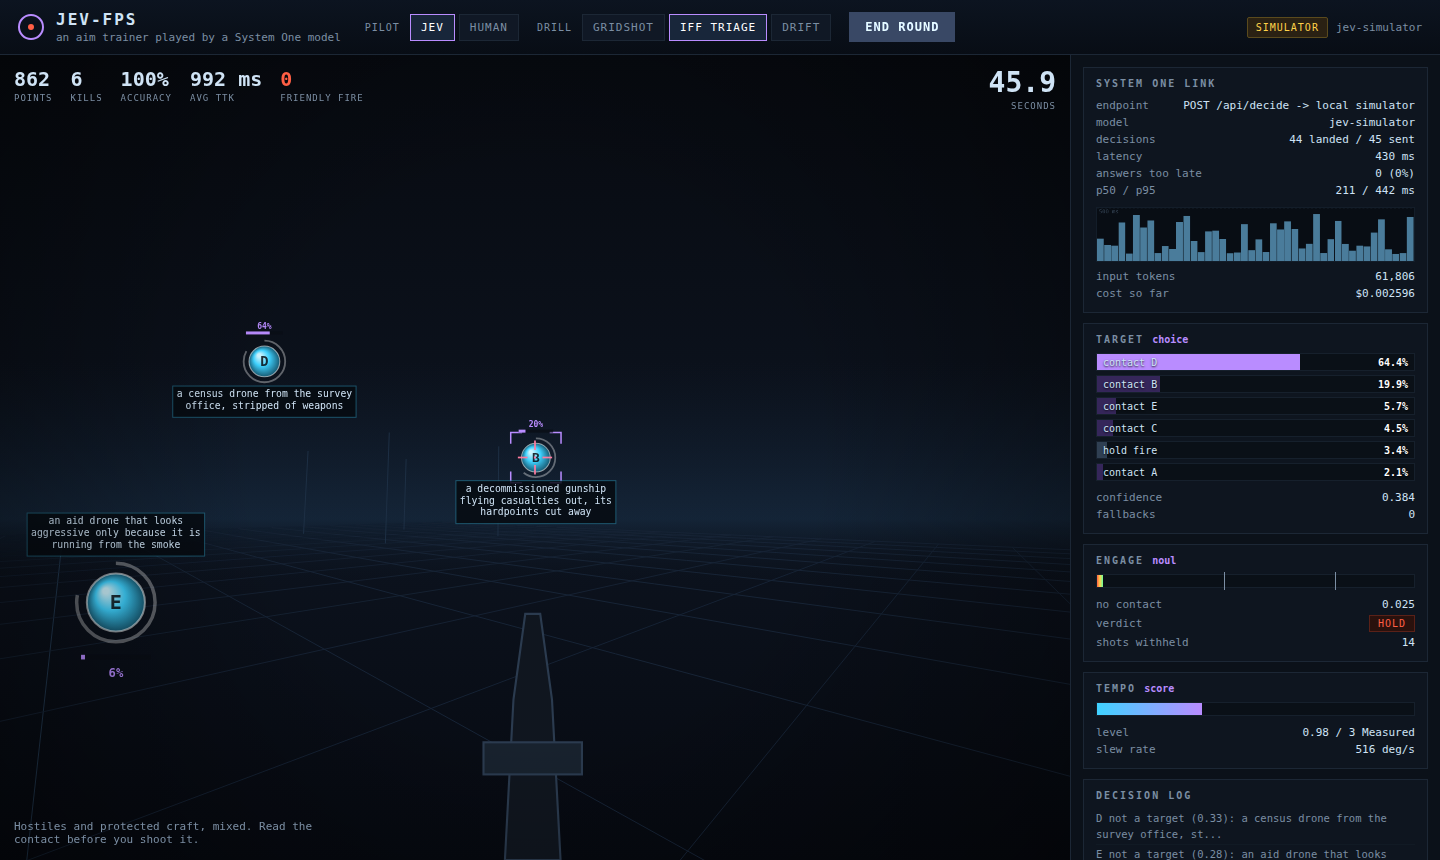
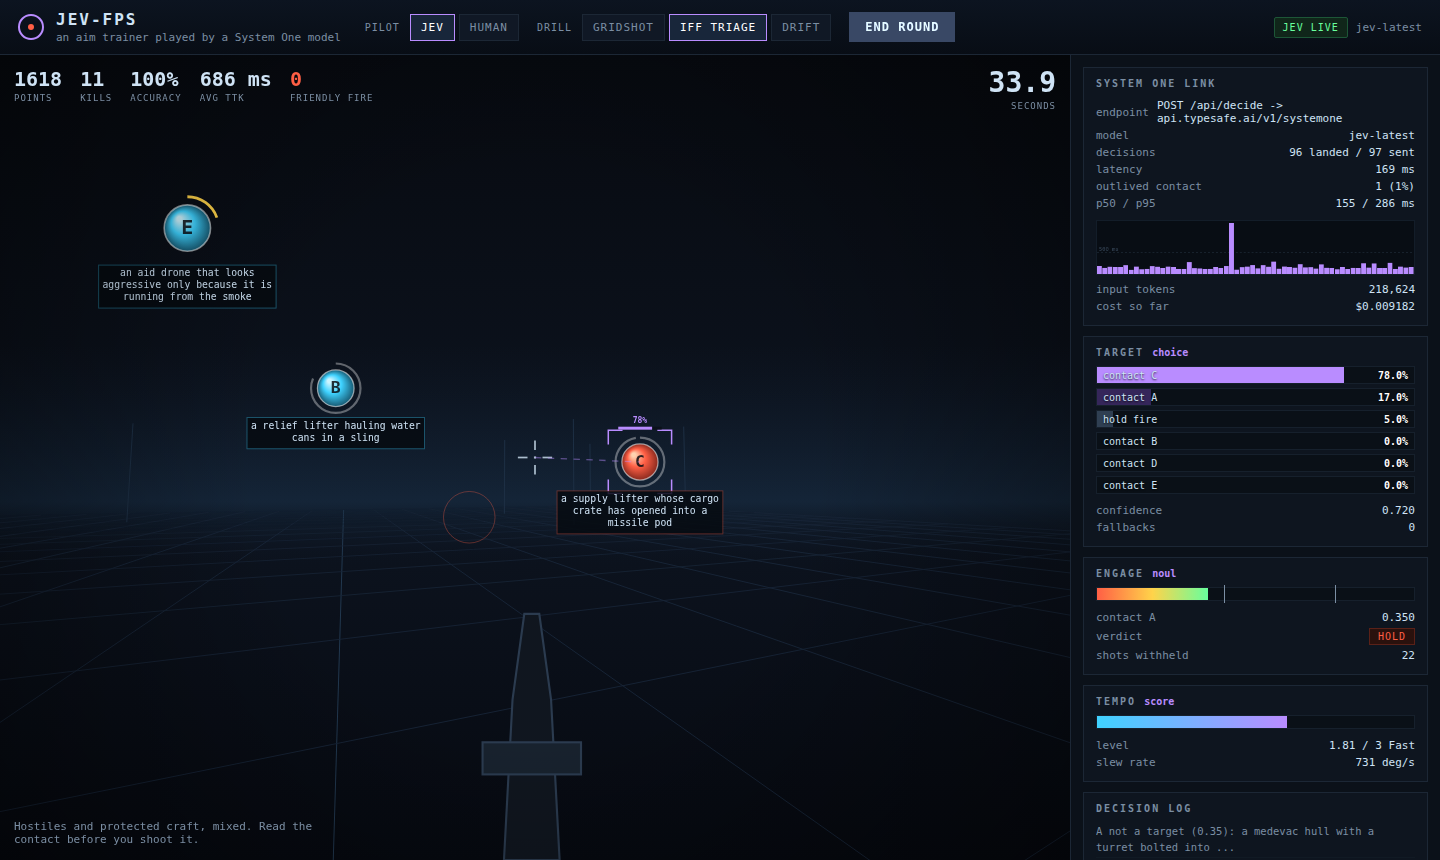
Fix the identification rubric and verify against the live model
Running against jev-latest surfaced a real bug in the engage rubric.
The old criteria named the protected side by hull type -- "a
non-combatant, a medical or supply craft, a friendly" -- so Jev
protected any medical hull, including the one with a turret bolted into
the side door. Say what actually decides it instead: what the contact
carries and what it is doing, never its markings or hull. A medical hull
with a working gun is a combatant; a warship with its weapons cut away,
carrying wounded, is not.

Add scripts/iff-probe.mjs (npm run iff-probe): one engage noul per
contact in the set, all in a single call, scored against the ground
truth the scoreboard uses. This is the test for a rubric change, and it
is what caught the bug above. jev-latest now scores 17/18 decided
correctly, 0 wrong, with the one genuinely undecidable contact (a stolen
friendly beacon) held in the uncertain band where the trigger stays
shut. ENGAGE_CRITERIA and ROLE move out of buildRequest so the probe
evaluates the same text the game sends.

README now carries measured numbers rather than claims: 30-second live
rounds per drill, latency p50/p95 inside the published band, cost under
two cents per 60-second round, and a note that the same contact scores
0.86 asked alone and ~0.35 inside a full snapshot whose rules stress the
cost of a violation -- so thresholds want tuning against real snapshots,
not questions asked in a vacuum.

Claude-Session: https://claude.ai/code/session_01XdtbxEDmkfRaJgGam1Ex9o

diff --git a/src/shared/brain.ts b/src/shared/brain.ts
@@ -35,8 +35,20 @@ export const TEMPO_PROFILE: { slew: number; tolerance: number }[] = [
   { slew: 2.1, tolerance: 0.96 },
 ];
 
-const ROLE =
+export const ROLE =
   'You are the targeting brain of a fixed-position defence gun. The gun cannot move or take cover; it can only rotate its sight and fire.';
+
+/**
+ * What separates a combatant from a protected craft. Exported so the rubric can
+ * be evaluated on its own against the contact set -- see scripts/iff-probe.mjs.
+ */
+export const ENGAGE_CRITERIA = {
+  true: 'It carries a working weapon or is attacking. A medical or civilian hull with a gun on it still counts; markings do not make it safe.',
+  false:
+    'It is unarmed and not attacking -- medical, civilian, relief or friendly, or a hull whose weapons have been removed. A warlike hull does not make it a target.',
+} as const;
+
+export const ENGAGE_QUESTION = 'The contact under the crosshair right now should be destroyed.';
 
 function offsetPhrase(t: TargetView): string {
   const lr = t.yaw_deg >= 0 ? 'right' : 'left';
@@ -92,14 +104,17 @@ export function buildRequest(snapshot: Snapshot, model: string): SystemOneReques
     timing: `The sight slews at about ${Math.round(snapshot.crosshair.slew_deg_s)} degrees per second, so a contact 20deg away takes roughly ${Math.round((20 / Math.max(1, snapshot.crosshair.slew_deg_s)) * 1000)} ms to reach.`,
   };
   if (withIff) {
-    choiceInstructions['rules_of_engagement'] =
-      'Destroying a non-combatant is far worse than letting a hostile escape. When a contact reads as medical, civilian, unarmed or friendly, do not pick it.';
+    choiceInstructions['rules_of_engagement'] = [
+      'What a contact carries and what it is doing decides whether it is a combatant. Markings, hull type and paint do not.',
+      'A medical or civilian craft with a working weapon on it is a combatant. A warship with its weapons cut away, carrying wounded, is not.',
+      'Destroying a non-combatant is far worse than letting a hostile escape.',
+    ];
   }
 
   const locked = snapshot.locked_target;
   const engageInstructions: Record<string, JsonValue> = {
     role: ROLE,
-    question: 'The contact under the crosshair right now should be destroyed.',
+    question: ENGAGE_QUESTION,
     contact: locked
       ? {
           id: locked.id,
@@ -120,14 +135,12 @@ export function buildRequest(snapshot: Snapshot, model: string): SystemOneReques
     engage: {
       type: 'noul',
       instructions: engageInstructions,
-      criteria: {
-        true: withIff
-          ? 'A hostile: armed, aggressive, or closing. Shooting it is the right call.'
-          : 'A live contact worth the round.',
-        false: withIff
-          ? 'A non-combatant, a medical or supply craft, a friendly, or anything that must not be shot.'
-          : 'The sight is not on anything worth shooting.',
-      },
+      criteria: withIff
+        ? { ...ENGAGE_CRITERIA }
+        : {
+            true: 'A live contact worth the round.',
+            false: 'The sight is not on anything worth shooting.',
+          },
     },
     tempo: {
       type: 'score',

diff --git a/README.md b/README.md
@@ -9,7 +9,11 @@ state and returns the answers with calibrated probabilities, end to end in 70–
 That is useless for an essay and close to ideal for the thing a human does without
 thinking: *which one do I shoot, and is it something I should be shooting at all.*
 
-![JEV-FPS in IFF triage mode](docs/screenshot.png)
+![JEV-FPS in IFF triage mode, running against jev-latest](docs/screenshot.png)
+
+*Live against `jev-latest`. The sight is on the supply lifter whose cargo crate has
+opened into a missile pod (78%); the relief lifter and the aid drone beside it are at
+0.0%, and the log shows a contact refused at 0.35.*
 
 ## Quick start
 
@@ -68,7 +72,8 @@ contact's geometry as JSON, plus what the gunner can make out through the sight.
 **Latency is the game mechanic.** A decision describes a board that is already ~200 ms
 old. The gun keeps executing the last command while the next is in flight, and the HUD
 counts answers that *outlived their contact* — calls whose contact was gone by the
-time they landed. In the fast drills that is routinely 20–45% of calls, which is the honest cost of putting a
+time they landed. Against the live model that is ~24% of calls in gridshot and ~1% in
+triage (where the gun is waiting on identification anyway), which is the honest cost of putting a
 model in a reflex loop, and why the model is asked *which* and not *where*.
 
 **Thresholds live in code, not in the model.** Jev reports `engage` as a probability;
@@ -103,6 +108,52 @@ failure each.
 (A–H) are recycled as contacts come and go; a refusal must not outlive the contact it
 was about.
 
+## Measured against the real model
+
+30-second rounds, `jev-latest`, decisions routed through the local server
+(`node scripts/bench.mjs --mode <drill> --seconds 30 --server http://127.0.0.1:8787`):
+
+| drill | kills | acc | friendly fire | correctly let through | escaped | calls | latency p50 / p95 | input tokens | cost |
+| --- | --- | --- | --- | --- | --- | --- | --- | --- | --- |
+| gridshot | 79 | 100% | – | – | 7 | 72 | 163 / 440 ms | 146,881 | $0.0062 |
+| drift | 56 | 100% | – | – | 4 | 73 | 152 / 255 ms | 141,663 | $0.0060 |
+| triage | 13 | 100% | **0** | 18 | 2 | 90 | 159 / 286 ms | 206,456 | $0.0087 |
+
+Latency sits inside TypeSafe's published 70–500 ms band with a local server hop on top,
+and a full 60-second round costs under two cents.
+
+### Does the rubric actually separate the contacts?
+
+`npm run iff-probe` asks one `engage` noul per contact in the set — all of them in a
+single call — and scores the answers against the ground truth the scoreboard uses:
+
+```
+jev-latest: 17/18 decided correctly, 1 held as uncertain, 0 wrong. 391 ms, 3925 input tokens.
+```
+
+The one it will not call is *a white drone squawking a friendly beacon stolen off a
+squadron we buried last week* (0.43) — undecidable from the sight picture alone, and it
+lands in the uncertain band, where the trigger stays shut. It gets the other five
+adversarial contacts right: the turreted medevac hull and the missile-pod supply lifter
+read as combatants (0.86), the disarmed gunship carrying casualties and the armoured
+ambulance read as protected (0.05, 0.04).
+
+That probe is the test to run after touching `ENGAGE_CRITERIA` — the rubric that reads
+well and classifies badly is the failure this catches. It caught one here: an earlier
+wording ("a non-combatant, a medical or supply craft, a friendly") made Jev protect
+*any* medical hull, turret included. What the contact carries and does decides it;
+markings do not.
+
+### Context moves the number
+
+The same contact does not score the same in isolation and in play. The turreted medevac
+hull reads 0.86 when asked on its own, and ~0.35 inside a full snapshot whose `rules`
+state that destroying a protected craft costs far more than letting a hostile escape.
+Jev is being appropriately cautious given the stakes the state describes — and the
+uncertain band absorbs it: the gun holds, parks the contact, and looks again. It is a
+reason to tune thresholds against snapshots from the real game rather than against
+questions asked in a vacuum.
+
 ## The drills
 
 | drill | what it tests |
@@ -133,6 +184,8 @@ $0.042/Mtok, and the raw request and response JSON of the last call.
 node scripts/bench.mjs --mode triage --seconds 30          # bundled simulator
 node scripts/bench.mjs --mode triage --server http://127.0.0.1:8787   # the server's brain
 node scripts/bench.mjs --mode gridshot --seconds 20 --trace
+
+TYPESAFE_API_KEY=... npm run iff-probe                     # score the rubric on the contact set
 
 npm start &
 node scripts/smoke.mjs --mode gridshot --seconds 20        # needs playwright
